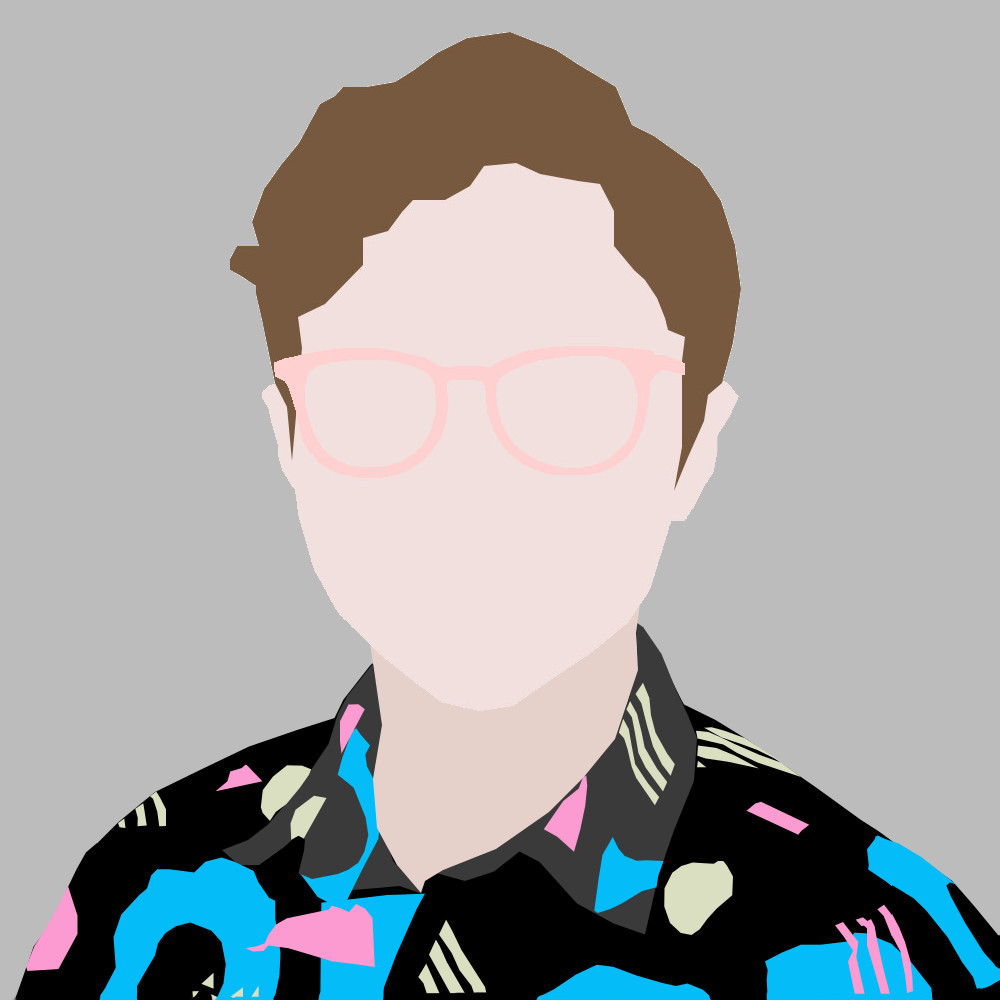
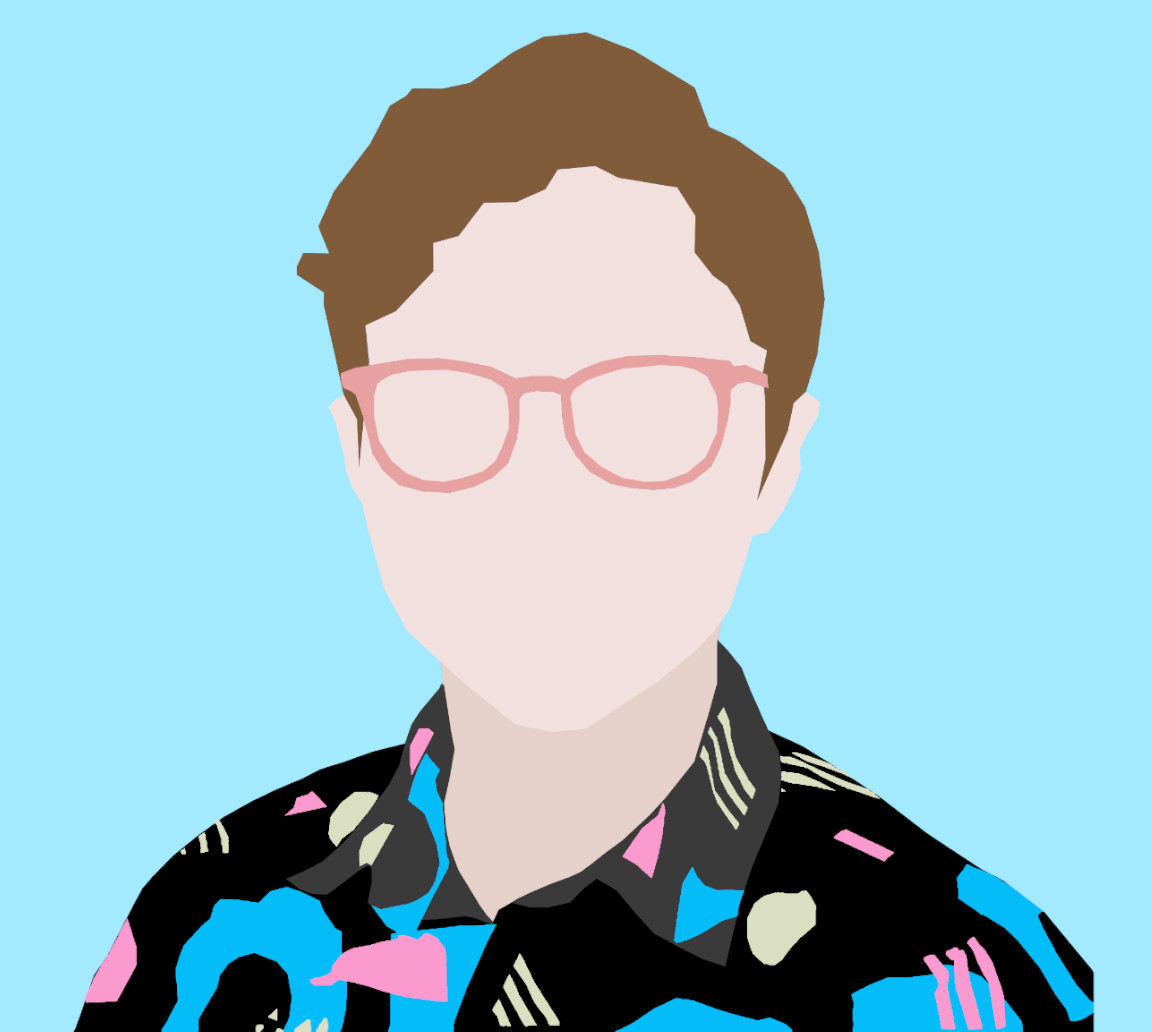
Added UTC, switched out profile pic

diff --git a/index.html b/index.html
@@ -28,7 +28,7 @@
     	<li><a target="_parent" href="https://cs.utexas.edu/~abellon/graphicdesign.html"> graphic design </a></li>
   	</ul>
   	<div>
-		<img class="logo"  src="images/profile_square.jpg" onmouseover="this.src='images/head.jpg';" onmouseout="this.src='images/profile_square.jpg';" width=30%>
+		<img class="logo"  src="images/profile_square.jpg" onmouseover="this.src='images/head_square.jpg';" onmouseout="this.src='images/profile_square.jpg';" width=30%>
   	</div>
   	<div>
     	<h1> Hi, my name is Alex Bellon </h1>
